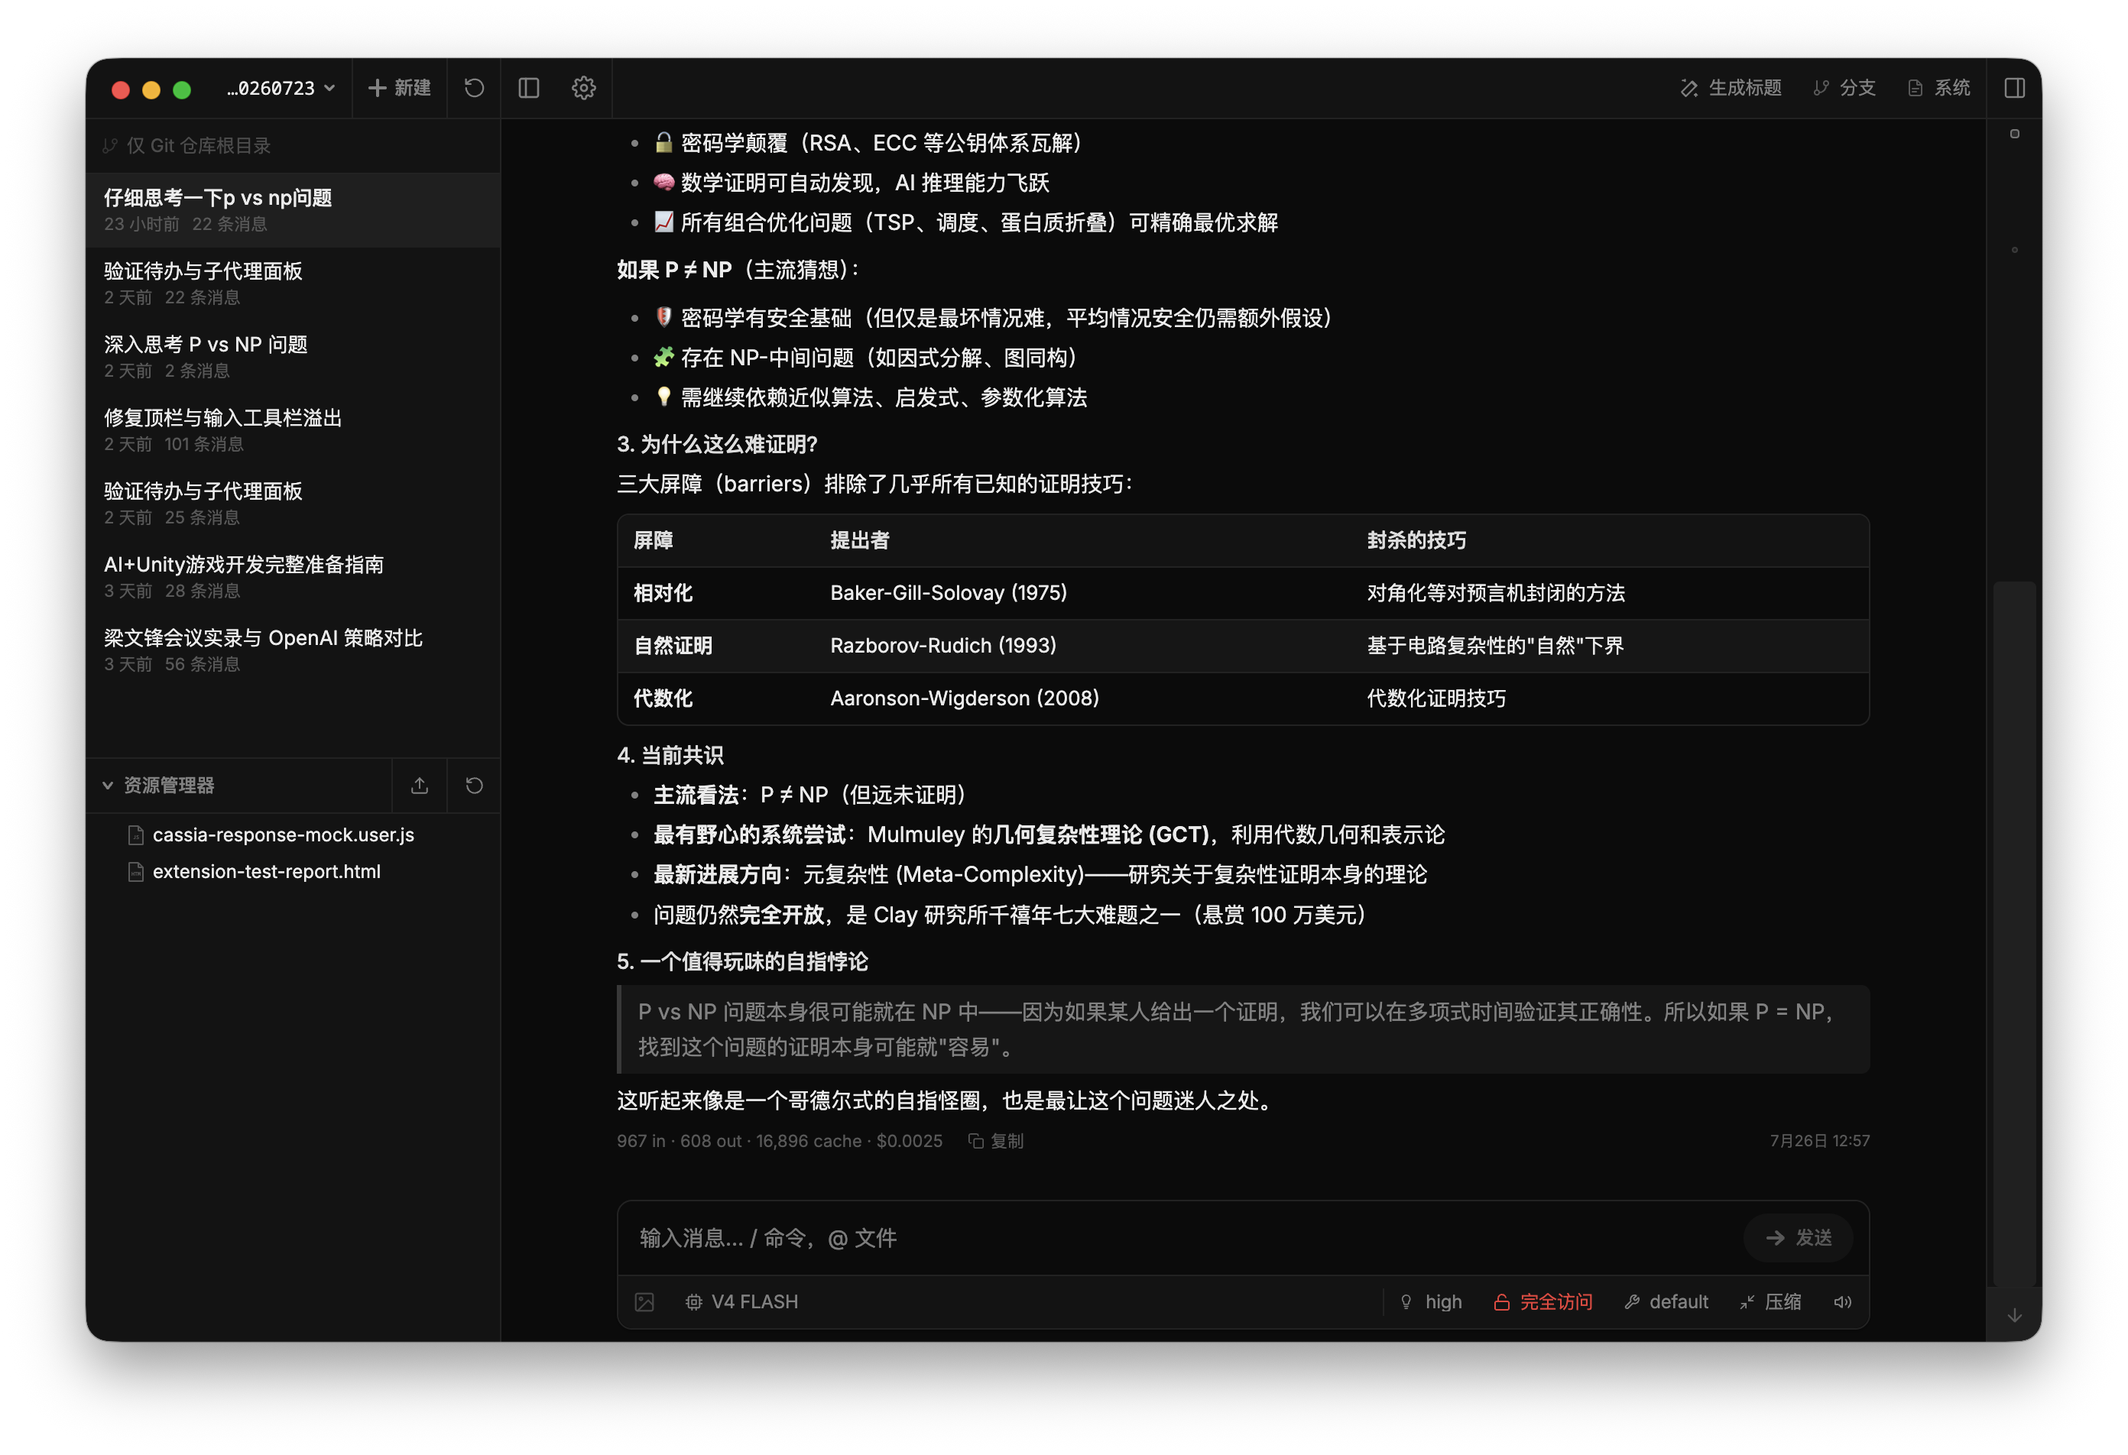
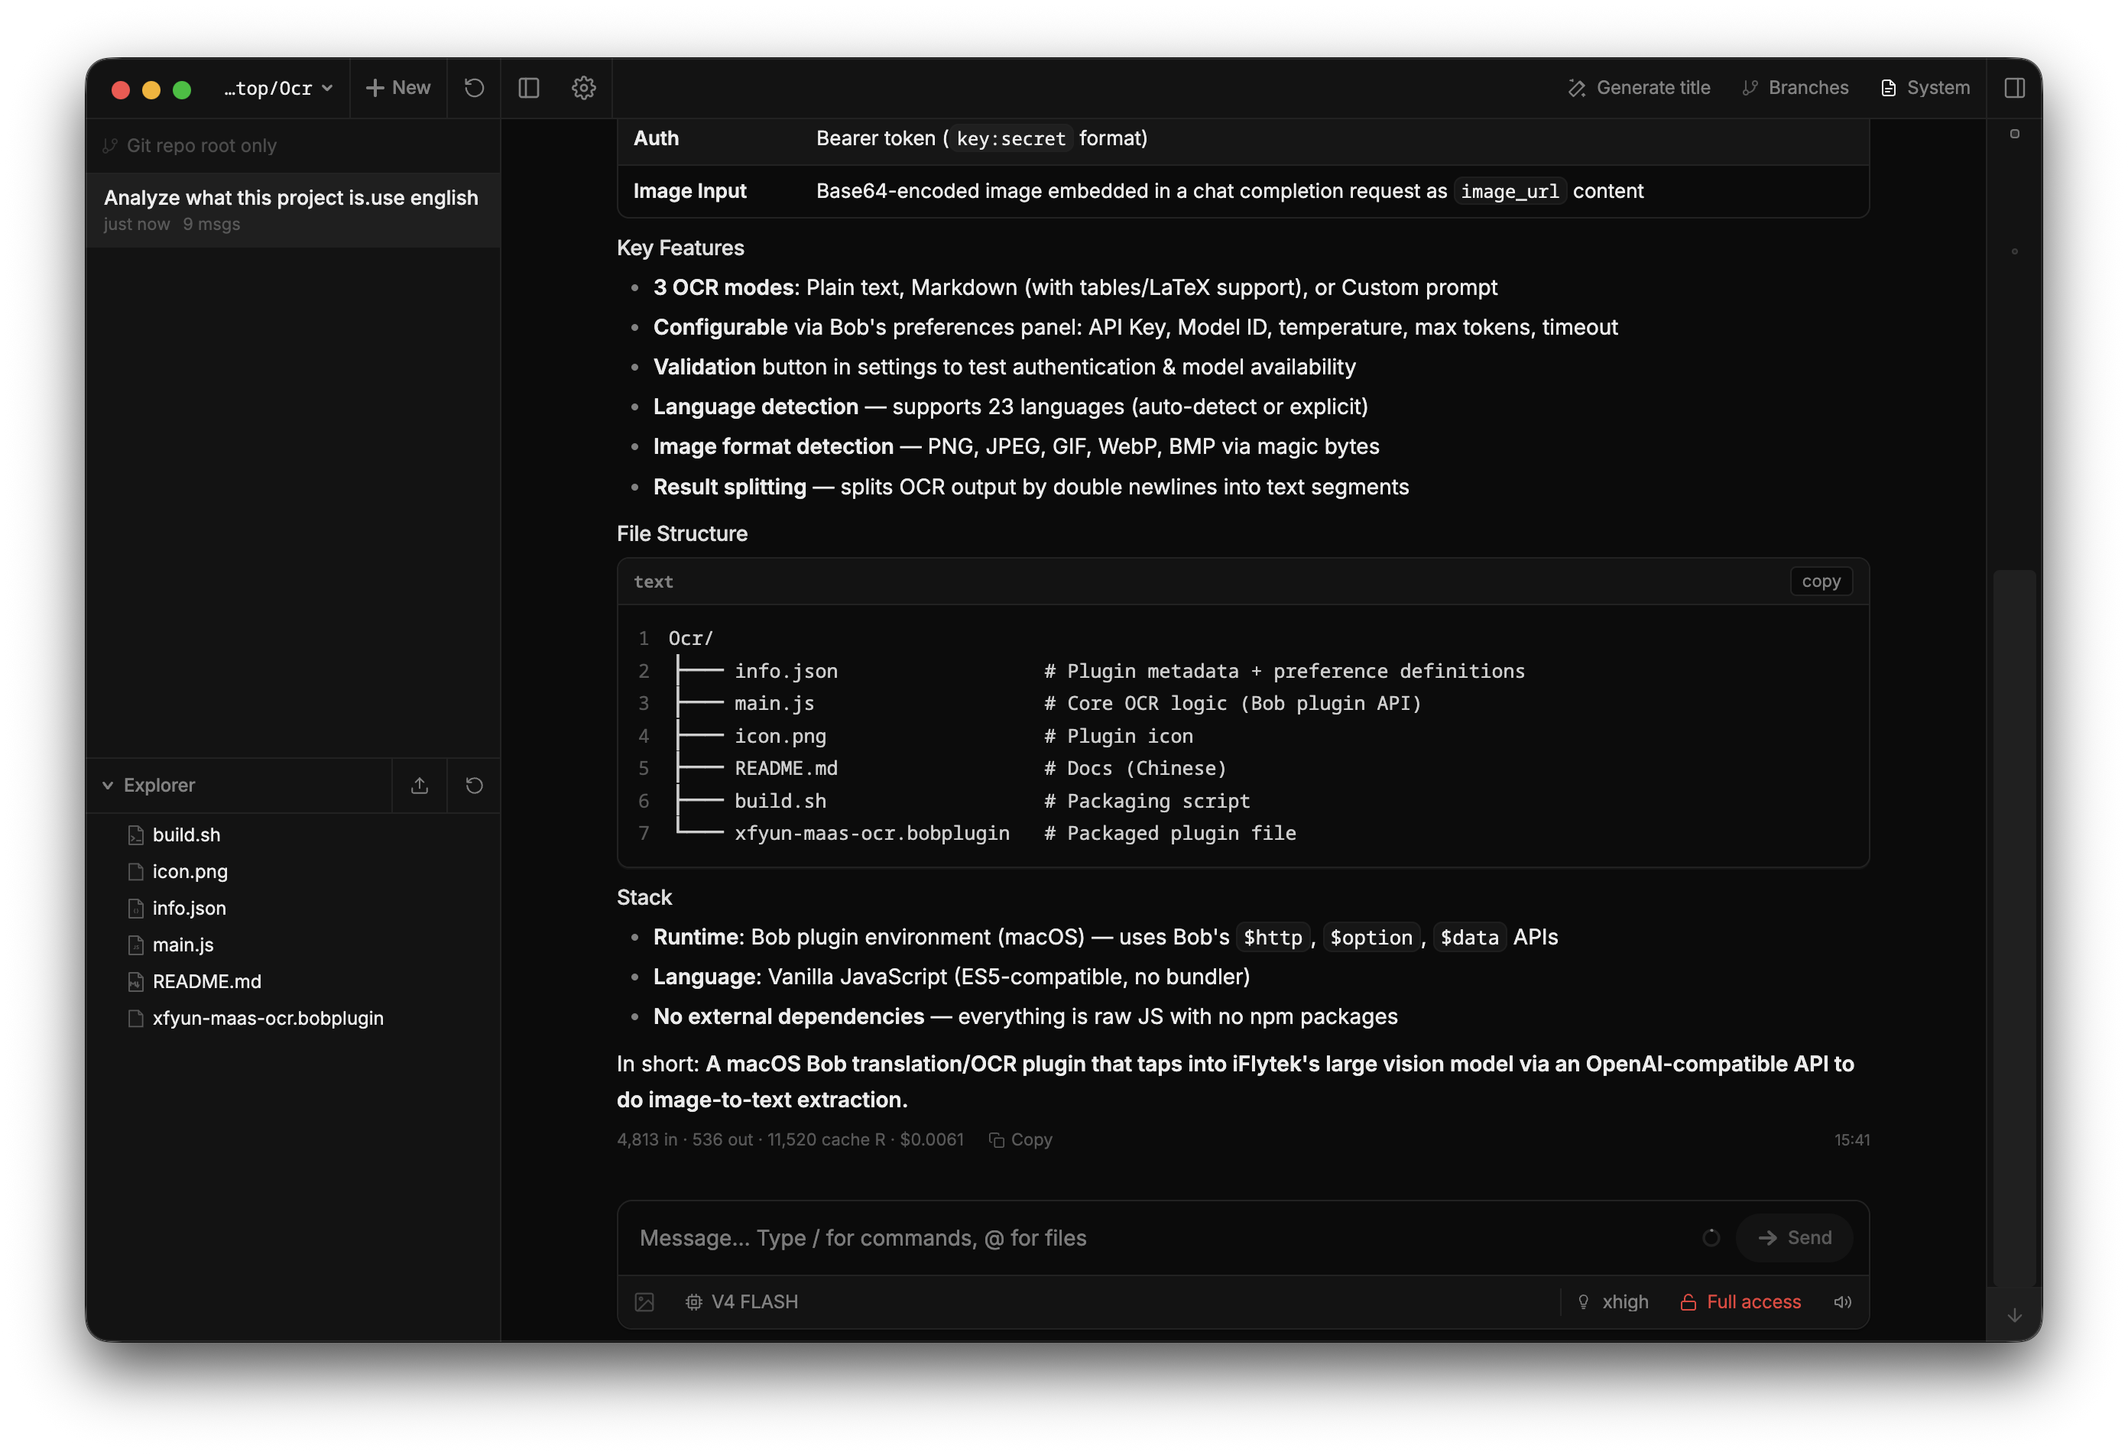
docs: add landing page and compress screenshots
- Add index.html with dark/light mode support
- Optimize screenshot PNGs for faster loading

diff --git a/docs/index.html b/docs/index.html
@@ -1,0 +1,351 @@
+<!doctype html>
+<html lang="en">
+<head>
+<meta charset="utf-8" />
+<meta name="viewport" content="width=device-width, initial-scale=1" />
+<title>Pi Web — Local agent workspace</title>
+<meta name="description" content="Pi Web — local-first coding-agent workspace: chat, files, Git, and terminals in one app." />
+<style>
+  /* Quiet Console monochrome tokens (ported from app/globals.css) */
+  :root {
+    --radius-xs: 4px;
+    --radius-sm: 6px;
+    --radius-md: 8px;
+    --radius-lg: 10px;
+    --radius-pill: 999px;
+
+    --bg: oklch(0.995 0 0);
+    --bg-panel: oklch(0.975 0.002 90);
+    --bg-hover: oklch(0.96 0.002 90);
+    --border: oklch(0.91 0 0);
+    --text: oklch(0.145 0 0);
+    --text-muted: oklch(0.55 0 0);
+    --text-dim: oklch(0.68 0 0);
+    --accent: oklch(0.16 0 0);
+    --accent-hover: oklch(0.28 0 0);
+    --accent-fg: oklch(0.985 0 0);
+    --tool-bg: oklch(0.975 0.002 90);
+    --destructive: oklch(0.58 0.22 27);
+    --destructive-bg: color-mix(in oklab, var(--destructive) 6%, var(--bg));
+    --destructive-border: color-mix(in oklab, var(--destructive) 35%, var(--border));
+    --shadow-md: 0 2px 8px rgba(0, 0, 0, 0.08), 0 8px 24px -12px rgba(0, 0, 0, 0.16);
+
+    --font-mono: ui-monospace, "SF Mono", "JetBrains Mono", "Fira Code", Menlo, Consolas, monospace;
+    color-scheme: light;
+  }
+  @media (prefers-color-scheme: dark) {
+    :root {
+      --bg: oklch(0.13 0 0);
+      --bg-panel: oklch(0.18 0 0);
+      --bg-hover: oklch(0.22 0 0);
+      --border: oklch(0.27 0 0);
+      --text: oklch(0.95 0 0);
+      --text-muted: oklch(0.64 0 0);
+      --text-dim: oklch(0.5 0 0);
+      --accent: oklch(0.94 0 0);
+      --accent-hover: oklch(0.98 0 0);
+      --accent-fg: oklch(0.12 0 0);
+      --tool-bg: oklch(0.18 0 0);
+      --destructive: oklch(0.65 0.2 28);
+      --shadow-md: 0 2px 8px rgba(0, 0, 0, 0.4), 0 8px 24px -12px rgba(0, 0, 0, 0.5);
+      color-scheme: dark;
+    }
+  }
+
+  * { box-sizing: border-box; }
+  html, body { margin: 0; padding: 0; }
+  body {
+    background: var(--bg);
+    color: var(--text);
+    font: 14px/1.55 ui-sans-serif, system-ui, -apple-system, BlinkMacSystemFont, "Segoe UI", "PingFang SC", "Hiriragino Sans GB", "Microsoft YaHei", sans-serif;
+    text-rendering: optimizeLegibility;
+  }
+  a { color: inherit; }
+  code { font-family: var(--font-mono); font-size: 12px; }
+
+  /* Shared button recipes (ported from globals.css) */
+  .btn-primary {
+    display: inline-flex; align-items: center; justify-content: center; gap: 6px;
+    height: 34px; padding: 0 16px; border: none; border-radius: var(--radius-pill);
+    background: var(--accent); color: var(--accent-fg);
+    font: inherit; font-size: 13px; font-weight: 600; white-space: nowrap;
+    text-decoration: none; cursor: pointer; transition: background 0.15s ease;
+  }
+  .btn-primary:hover { background: var(--accent-hover); }
+  .btn-ghost {
+    display: inline-flex; align-items: center; justify-content: center; gap: 6px;
+    height: 34px; padding: 0 14px; border: 1px solid var(--border); border-radius: var(--radius-sm);
+    background: transparent; color: var(--text);
+    font: inherit; font-size: 13px; white-space: nowrap;
+    text-decoration: none; cursor: pointer; transition: background 0.15s ease;
+  }
+  .btn-ghost:hover { background: var(--bg-hover); }
+
+  header.top {
+    height: 48px; display: flex; align-items: center; justify-content: space-between;
+    padding: 0 20px; border-bottom: 1px solid var(--border);
+  }
+  header.top .brand { display: flex; align-items: center; gap: 8px; font-size: 13px; font-weight: 600; }
+  header.top .brand .pi { font-family: var(--font-mono); font-size: 15px; }
+  header.top nav { display: flex; align-items: center; gap: 4px; font-size: 13px; }
+  header.top nav a {
+    color: var(--text-muted); text-decoration: none; padding: 6px 10px; border-radius: var(--radius-sm);
+  }
+  header.top nav a:hover { background: var(--bg-hover); color: var(--text); }
+
+  main { max-width: 960px; margin: 0 auto; padding: 56px 24px 72px; }
+
+  .micro {
+    font-size: 11px; font-weight: 600; letter-spacing: 0.06em; text-transform: uppercase;
+    color: var(--text-dim); margin-bottom: 10px;
+  }
+
+  /* Hero */
+  .hero { text-align: center; margin-bottom: 44px; }
+  .hero h1 {
+    margin: 0 0 14px; font-size: clamp(28px, 4.5vw, 40px); font-weight: 600;
+    letter-spacing: -0.02em; line-height: 1.15;
+  }
+  .hero p { margin: 0 auto 22px; max-width: 560px; color: var(--text-muted); line-height: 1.65; }
+  .chips { display: flex; justify-content: center; flex-wrap: wrap; gap: 6px; margin-bottom: 26px; }
+  .chips span {
+    border: 1px solid var(--border); border-radius: var(--radius-pill); padding: 3px 10px;
+    font-family: var(--font-mono); font-size: 11px; color: var(--text-muted);
+  }
+  .cta { display: flex; justify-content: center; gap: 10px; flex-wrap: wrap; }
+
+  /* Screenshot: bare — the PNG already carries its own window frame + shadow */
+  .shot { margin-bottom: 60px; }
+  .shot img { display: block; width: min(100%, 880px); height: auto; margin: 0 auto; }
+  .shot .shot-dark { display: none; }
+  @media (prefers-color-scheme: dark) {
+    .shot .shot-light { display: none; }
+    .shot .shot-dark { display: block; }
+  }
+
+  section { margin-bottom: 56px; }
+  section h2 { margin: 0; font-size: 20px; font-weight: 600; letter-spacing: -0.01em; }
+  .sec-head { margin-bottom: 18px; }
+
+  .grid { display: grid; grid-template-columns: repeat(3, 1fr); gap: 10px; }
+  .card {
+    border: 1px solid var(--border); border-radius: var(--radius-md); padding: 12px 14px;
+    transition: background 0.15s ease;
+  }
+  .card:hover { background: var(--bg-hover); }
+  .card .t { font-size: 13px; font-weight: 600; margin-bottom: 4px; }
+  .card .d { font-size: 12px; line-height: 1.55; color: var(--text-muted); }
+
+  /* Horizontal node strips (layout panes / architecture) */
+  .wire { display: flex; align-items: stretch; gap: 8px; }
+  .wire .node {
+    flex: 1; border: 1px solid var(--border); border-radius: var(--radius-md);
+    padding: 14px 16px; background: var(--bg-panel);
+  }
+  .wire .node.plain { background: transparent; }
+  .wire .node .t { font-size: 13px; font-weight: 600; margin-bottom: 4px; }
+  .wire .node .d { font-family: var(--font-mono); font-size: 11px; color: var(--text-dim); }
+  .wire .arrow { display: flex; align-items: center; color: var(--text-dim); }
+  .wire.mono .node {
+    display: flex; align-items: center; justify-content: center; text-align: center;
+    font-family: var(--font-mono); font-size: 12px; padding: 10px 8px; border-radius: var(--radius-sm);
+  }
+  .wire-note { margin: 12px 0 0; font-size: 12px; color: var(--text-muted); line-height: 1.6; }
+  .wire-note code { font-size: 11px; }
+
+  /* Code block */
+  .code {
+    border: 1px solid var(--border); border-radius: var(--radius-md); background: var(--tool-bg);
+    padding: 14px 16px; font-family: var(--font-mono); font-size: 12.5px; line-height: 1.75;
+    overflow-x: auto;
+  }
+  .code .c { color: var(--text-dim); }
+  .cmd-chips { display: flex; flex-wrap: wrap; gap: 8px; margin-top: 10px; }
+  .cmd-chips span {
+    border: 1px solid var(--border); border-radius: var(--radius-sm); padding: 4px 8px;
+    font-family: var(--font-mono); font-size: 11px; color: var(--text-muted);
+  }
+
+  .warning {
+    margin-top: 14px; border: 1px solid var(--destructive-border); border-radius: var(--radius-md);
+    background: var(--destructive-bg); padding: 12px 14px; font-size: 13px; line-height: 1.55;
+  }
+
+  /* Data table */
+  .rows { border: 1px solid var(--border); border-radius: var(--radius-md); overflow: hidden; }
+  .rows .row {
+    display: flex; flex-wrap: wrap; gap: 4px 16px; align-items: baseline; padding: 10px 14px;
+  }
+  .rows .row + .row { border-top: 1px solid var(--border); }
+  .rows .row:nth-child(even) { background: var(--bg-panel); }
+  .rows .row code { min-width: 220px; }
+  .rows .row .d { font-size: 12px; color: var(--text-muted); }
+
+  footer {
+    border-top: 1px solid var(--border); padding: 16px 24px;
+    display: flex; justify-content: space-between; flex-wrap: wrap; gap: 8px;
+    font-size: 12px; color: var(--text-dim);
+  }
+  footer a { color: var(--text-muted); }
+
+  @media (max-width: 900px) { .grid { grid-template-columns: repeat(2, 1fr); } }
+  @media (max-width: 640px) {
+    .grid { grid-template-columns: 1fr; }
+    .wire { flex-direction: column; }
+    .wire .arrow { justify-content: center; transform: rotate(90deg); }
+    main { padding-top: 40px; }
+  }
+  @media (prefers-reduced-motion: reduce) {
+    .card, .btn-primary, .btn-ghost, header.top nav a { transition: none; }
+  }
+</style>
+</head>
+<body>
+
+<header class="top">
+  <div class="brand"><span class="pi">π</span><span>Pi Web</span></div>
+  <nav>
+    <a href="http://127.0.0.1:30141/">App</a>
+    <a href="https://github.com/ct-jyjntc/pi-web">GitHub</a>
+    <a href="https://github.com/ct-jyjntc/pi-web/issues">Issues</a>
+  </nav>
+</header>
+
+<main>
+  <!-- Hero -->
+  <section class="hero" style="margin-bottom:44px">
+    <div class="micro">Local-first agent workspace</div>
+    <h1>Chat, files, Git, and terminals<br />in one quiet workspace.</h1>
+    <p>
+      Pi Web is a coding-agent workspace for your own machine. Open a project,
+      chat with the agent, review Git changes, browse files, and open terminals —
+      in the browser or as a desktop app.
+    </p>
+    <div class="chips">
+      <span>Node ≥ 22.19</span>
+      <span>MIT</span>
+      <span>Web + Electron</span>
+      <span>REST + SSE</span>
+      <span>English / 中文</span>
+    </div>
+    <div class="cta">
+      <a class="btn-primary" href="http://127.0.0.1:30141/">Open the app</a>
+      <a class="btn-ghost" href="https://github.com/ct-jyjntc/pi-web">View on GitHub</a>
+    </div>
+  </section>
+
+  <!-- Screenshot (bare — window frame is baked into the PNG) -->
+  <div class="shot">
+    <img class="shot-light" src="screenshot-light.png" alt="Pi Web in light theme" width="2784" height="1904" />
+    <img class="shot-dark" src="screenshot-dark.png" alt="Pi Web in dark theme" width="2784" height="1904" />
+  </div>
+
+  <!-- Highlights -->
+  <section>
+    <div class="sec-head">
+      <div class="micro">Highlights</div>
+      <h2>Everything in one place</h2>
+    </div>
+    <div class="grid">
+      <div class="card"><div class="t">Agent chat</div><div class="d">Streaming replies, tool calls &amp; results, thinking, context &amp; cost, compaction.</div></div>
+      <div class="card"><div class="t">Session hub</div><div class="d">Project-grouped history, rename / delete / export HTML, fork &amp; in-session branches.</div></div>
+      <div class="card"><div class="t">Git review</div><div class="d">Status, stage / discard, commit &amp; push, branch create, AI commit messages.</div></div>
+      <div class="card"><div class="t">Worktrees</div><div class="d">Switch, create, and remove Git worktrees straight from the sidebar.</div></div>
+      <div class="card"><div class="t">Terminals</div><div class="d">Multi-tab PTY shells (xterm + node-pty) rooted at the project cwd.</div></div>
+      <div class="card"><div class="t">Files</div><div class="d">Explorer, fuzzy index, preview for source / Markdown / images / PDF / DOCX.</div></div>
+      <div class="card"><div class="t">Models &amp; auth</div><div class="d">Providers, OAuth / API keys, models.json editor, model smoke tests.</div></div>
+      <div class="card"><div class="t">Skills</div><div class="d">List, search, install, update, enable / disable agent skills.</div></div>
+      <div class="card"><div class="t">Permissions</div><div class="d">Ask / full mode switched right from the input bar.</div></div>
+      <div class="card"><div class="t">Settings</div><div class="d">Theme, language, utility models for titles &amp; commits, update check.</div></div>
+      <div class="card"><div class="t">i18n &amp; polish</div><div class="d">English / 中文, light / dark, chat minimap, shortcuts, completion sound.</div></div>
+      <div class="card"><div class="t">Desktop</div><div class="d">Electron shell with native window controls; macOS DMG &amp; Windows NSIS builds.</div></div>
+    </div>
+  </section>
+
+  <!-- Three-pane layout -->
+  <section>
+    <div class="sec-head">
+      <div class="micro">Layout</div>
+      <h2>Three panes, zero noise</h2>
+    </div>
+    <div class="wire">
+      <div class="node"><div class="t">Projects &amp; sessions</div><div class="d">tree, search, worktrees</div></div>
+      <span class="arrow">→</span>
+      <div class="node"><div class="t">Chat + tools</div><div class="d">model · permissions · streaming</div></div>
+      <span class="arrow">→</span>
+      <div class="node"><div class="t">Review workspace</div><div class="d">Git · files · terminals</div></div>
+    </div>
+  </section>
+
+  <!-- Quick start -->
+  <section>
+    <div class="sec-head">
+      <div class="micro">Run from source</div>
+      <h2>Up in under a minute</h2>
+    </div>
+    <div class="code">
+      git clone https://github.com/ct-jyjntc/pi-web.git<br />
+      cd pi-web<br />
+      npm install<br />
+      npm run dev <span class="c"># http://127.0.0.1:30141</span>
+    </div>
+    <div class="cmd-chips">
+      <span>npm run build &amp;&amp; npm run start</span>
+      <span>npm run electron:dev</span>
+      <span>npm run dist:dmg / dist:win</span>
+    </div>
+    <div class="warning" role="note">
+      <strong>No login.</strong> The server binds to <code>127.0.0.1</code> by default.
+      Binding outside loopback exposes a high-privilege agent surface — only do that on a network you trust.
+    </div>
+  </section>
+
+  <!-- Architecture -->
+  <section>
+    <div class="sec-head">
+      <div class="micro">Architecture</div>
+      <h2>How it is wired</h2>
+    </div>
+    <div class="wire mono">
+      <div class="node plain">Browser / Electron</div>
+      <span class="arrow">→</span>
+      <div class="node">Next.js API</div>
+      <span class="arrow">→</span>
+      <div class="node">In-process agent runtime</div>
+      <span class="arrow">→</span>
+      <div class="node">~/.pi/agent</div>
+      <span class="arrow">→</span>
+      <div class="node plain">Git · PTY · files</div>
+    </div>
+    <p class="wire-note">
+      The client talks to the Next.js server over REST + SSE. Session browsing reads the
+      local <code>.jsonl</code> files directly; sending a message starts an in-process
+      AgentSession that streams events back over SSE.
+    </p>
+  </section>
+
+  <!-- Local data -->
+  <section>
+    <div class="sec-head">
+      <div class="micro">Local data</div>
+      <h2>Your data stays on your machine</h2>
+    </div>
+    <div class="rows">
+      <div class="row"><code>~/.pi/agent</code><span class="d">Default data root (PI_CODING_AGENT_DIR overrides)</span></div>
+      <div class="row"><code>…/sessions/…/*.jsonl</code><span class="d">Conversation history, one file per session</span></div>
+      <div class="row"><code>…/models.json</code><span class="d">Model / provider config, also editable in the UI</span></div>
+    </div>
+    <p class="wire-note">
+      File browsing is scoped to session cwds, project roots, <code>~/pi-cwd-*</code>,
+      and explicitly allowed roots.
+    </p>
+  </section>
+</main>
+
+<footer>
+  <span>MIT · <a href="https://github.com/ct-jyjntc/pi-web">ct-jyjntc/pi-web</a></span>
+  <span>Based on <a href="https://github.com/agegr/pi-web">agegr/pi-web</a></span>
+</footer>
+
+</body>
+</html>
